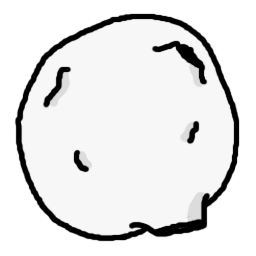
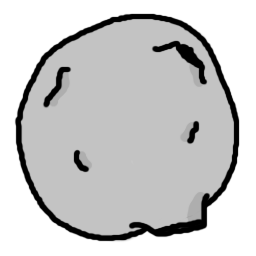
Fix planet colors. Expand world. Offset when teleporting. Pagination for the planet query

diff --git a/server/gameServer.js b/server/gameServer.js
@@ -21,7 +21,7 @@ var rl = readline.createInterface({
 });
 
 var port = process.env.PORT || 4545;
-var WORLD_SIZE = 10000; // also in the client
+var WORLD_SIZE = 15000; // also in the client
 
 var players = []	// Array of connected players
 var planets = []// Array of planets
@@ -787,7 +787,11 @@ function queryAllPlanets() {
   planets = []
   var queryObject = kii.KiiQuery.queryWithClause(null);
   queryObject.sortByDesc("_created");
+  executePlanetQuery(queryObject, 1);
+}
 
+function executePlanetQuery(queryObject, page) {
+  console.log("Executing planet query, page " + page);
   var bucket = kii.Kii.bucketWithName("Planets" + BUCKET_SUFFIX);
   bucket.executeQuery(queryObject).then(function (params) {
     var queryPerformed = params[0];
@@ -801,6 +805,9 @@ function queryAllPlanets() {
       planet.kiiObj = planetResult
       planet.info = Planet.validateInfo(planetInfo);
       planets.push(planet)
+    }
+    if (nextQuery) {
+      executePlanetQuery(nextQuery, page + 1);
     }
   }).catch(function (error) {
     var errorString = "" + error.code + ":" + error.message;

diff --git a/client/gameClient.js b/client/gameClient.js
@@ -1,6 +1,6 @@
 var WIDTH = 540
 var HEIGHT = 960
-var WORLD_SIZE = 10000; // also in the server
+var WORLD_SIZE = 15000; // also in the server
 
 var game = new Phaser.Game(WIDTH, HEIGHT, Phaser.CANVAS, 'gameContainer',
     { preload: preload, create: create, update: update, render: render })
@@ -155,7 +155,7 @@ function onSocketConnected () {
 // Socket disconnected
 function onSocketDisconnect () {
   console.log('Disconnected from socket server')
-  
+
   glob.otherPlayers = {};
   for (var key in glob.otherPlayerObjs) {
     if (glob.otherPlayerObjs.hasOwnProperty(key)) {

diff --git a/client/Shout.js b/client/Shout.js
@@ -39,7 +39,9 @@ Shout.prototype.onClick = function () {
   clickUsedByUI = true;
 
   if (player && this.playerObj) {
-    player.teleportToPosition(this.playerObj.gameObj.x, this.playerObj.gameObj.y);
+    var deltaX = -50 + 100 * Math.random();
+    var deltaY = -50 + 100 * Math.random();
+    player.teleportToPosition(this.playerObj.gameObj.x + deltaX, this.playerObj.gameObj.y + deltaY);
     console.log("Teleported!");
   }
 }

diff --git a/client/LocalPlanet.js b/client/LocalPlanet.js
@@ -19,7 +19,7 @@ var LocalPlanet = function (planetID, group, info) {
 }
 
 // nobody's, mine, not mine
-LocalPlanet.colors = [0xbbbbbb, 0xddffdd, 0xbbeeff]
+LocalPlanet.colors = [0xffffff, 0xddffdd, 0xafcfef]
 LocalPlanet.prototype.setInfo = function (info) {
   CommonUtil.validate(info, Planet.generateNewInfo(this.planetID, 0, 0, null))
   this.info = info

diff --git a/server/_dont_forget_KiiServerCreds.js b/server/_dont_forget_KiiServerCreds.js
@@ -6,8 +6,8 @@
 
 // Don't commit them to the repo, obviously
 var KiiServerCreds = function () {
-  var username = "admin_chall" // username here
-  var password = "challosis12" // password here
+  var username = "" // username here
+  var password = "" // password here
 
   return {
     username: username,

diff --git a/client/LocalPlayer.js b/client/LocalPlayer.js
@@ -72,6 +72,7 @@ LocalPlayer.prototype.teleportToPosition = function (x, y) {
   this.gameObj.x = x;
   this.gameObj.y = y;
   this.targetPos = new Phaser.Point(x, y);
+  updateSpawnedObjs();
 }
 
 LocalPlayer.prototype.itemRequiresTarget = function (slot) {
